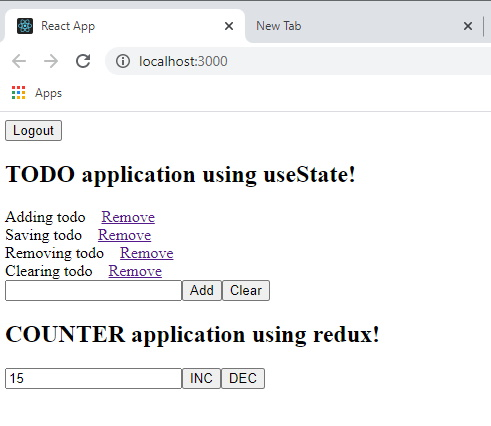
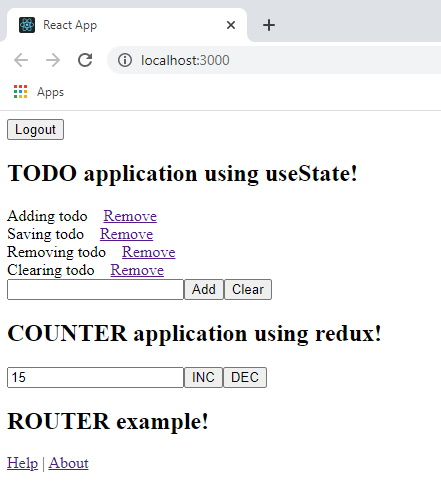
adding router example

Changed region(s): [[0.0, 0.0, 1.0, 0.946]]

diff --git a/src/components/Footer.js b/src/components/Footer.js
@@ -1,0 +1,44 @@
+import React from 'react';
+import { BrowserRouter as Router, Switch, Route } from 'react-router-dom';
+import { Link } from 'react-router-dom';
+
+
+function Footer() {
+  return (
+    <Router>
+      
+      <h2>ROUTER example!</h2>
+      <div>
+        <Link to="/help">Help</Link> | <Link to="/about">About</Link>
+      </div>
+
+      <Switch>
+        <Route path="/help" component={Help} />
+        <Route path="/about" component={About} />
+      </Switch>
+
+    </Router>
+  )
+}
+
+
+
+// Help component.
+function Help() {
+  return (
+    <h3>
+      This is help page.
+    </h3>
+  )
+}
+// About component.
+function About() {
+  return (
+    <h3>
+      This is about page.
+    </h3>
+  )
+}
+
+
+export default Footer;

diff --git a/src/App.js b/src/App.js
@@ -2,6 +2,7 @@ import React, { useState, useEffect } from 'react';
 // importing Components.
 import TodoList from './components/TodoList';
 import Counter from './components/Counter';
+import Footer from './components/Footer';
 
 
 function App () {
@@ -42,11 +43,12 @@ function App () {
 
   if(isLoggedIn) {
     return (
-      <div>
-        <button onClick={logoutHandler}>Logout</button>
-        <TodoList />
-        <Counter />
-      </div>
+        <div>
+          <button onClick={logoutHandler}>Logout</button>
+          <TodoList />
+          <Counter />
+          <Footer />
+        </div>
     );
   } else {
     return (
@@ -56,5 +58,7 @@ function App () {
     )
   }
 }
+
+
 
 export default App;

diff --git a/README.md b/README.md
@@ -1,4 +1,7 @@
 # react-redux
-The idea here is to setup a basic react application to demonstrate useState and redux.
+The idea here is to setup a very basic react application for absolute beginners. It also covers a very basic implementation for redux. Although the tasks are really small but they are important means to demonstrate how these technologies work. The project covers the followings - 
+
+  1. React - useState, useEffect, useRef, router, etc.
+  2. Redux - Store, Reducers, Actions, Dispatch. 
 
 <img src="Application.jpg" />
